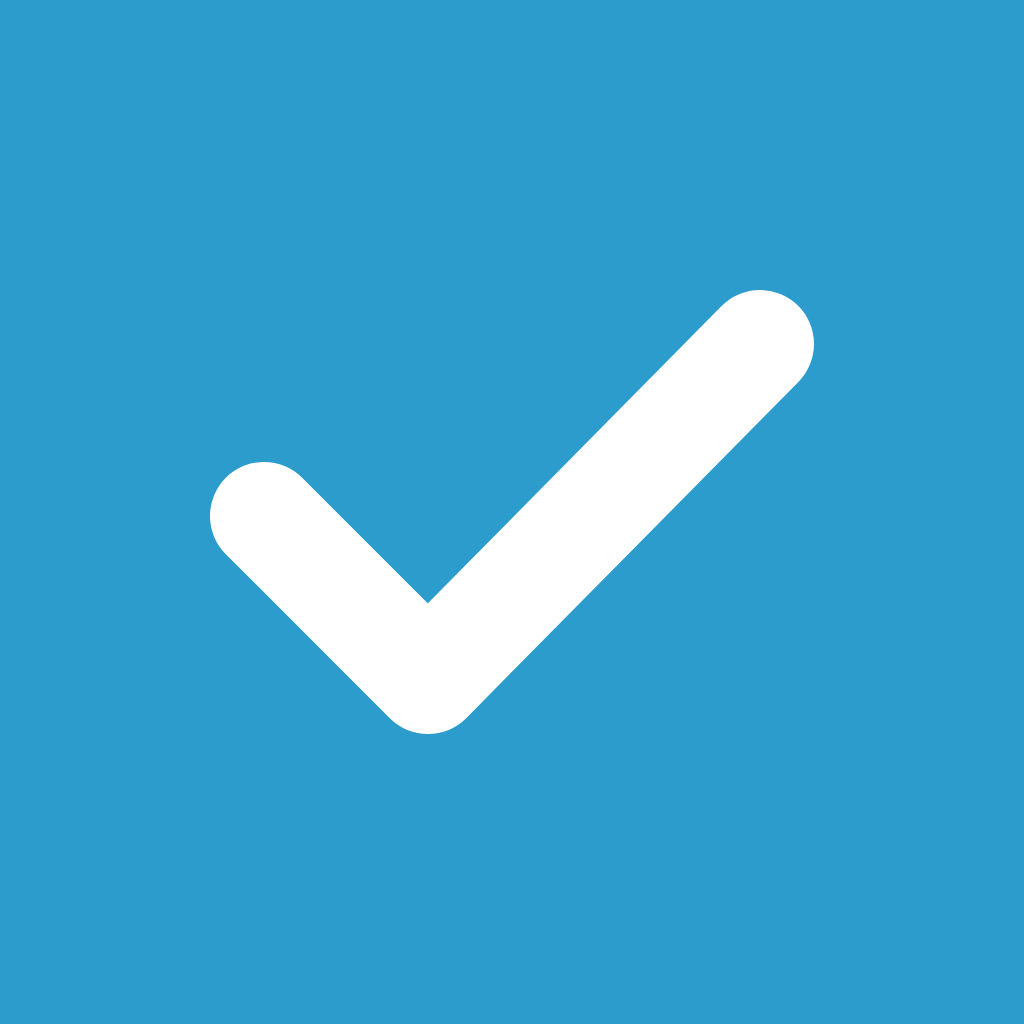
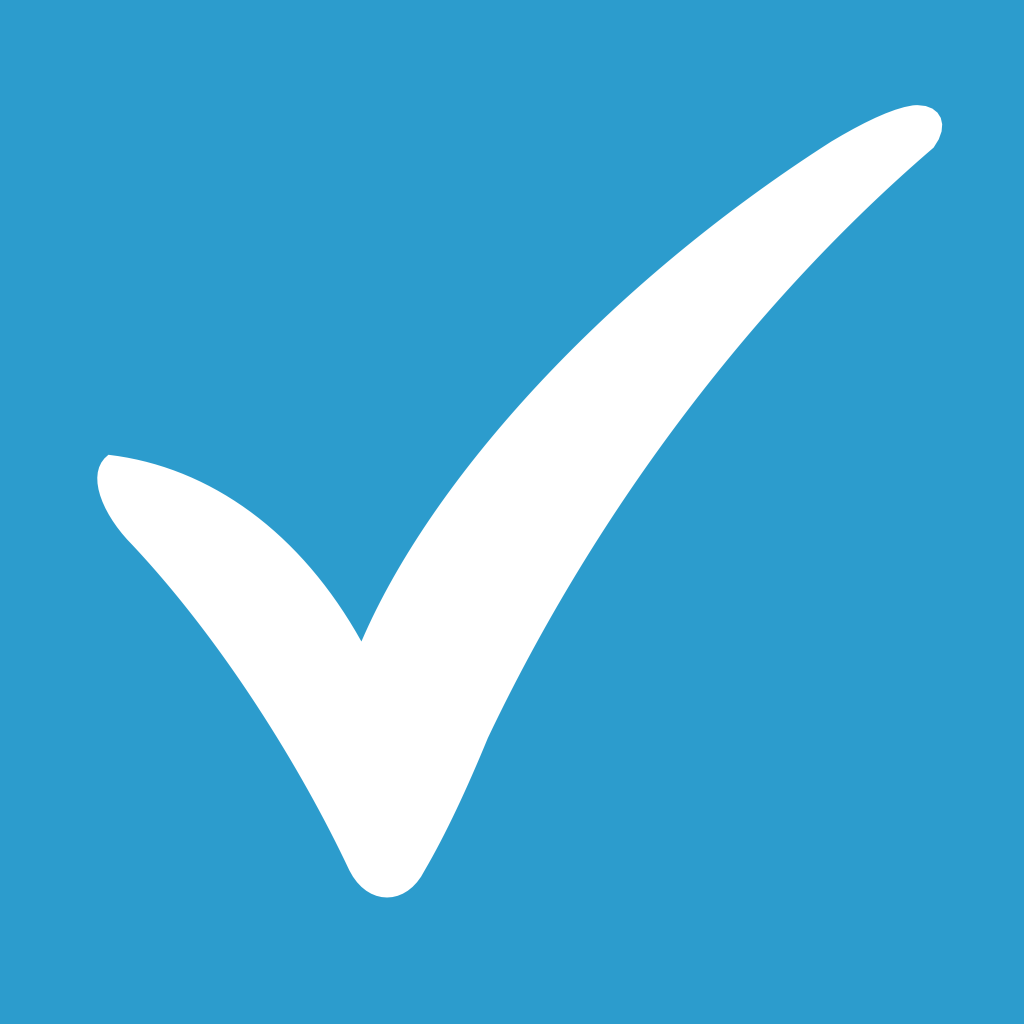
feat: update branding to the v3a design (#50)

Changed region(s): [[0.0938, 0.0938, 0.9375, 0.875], [0.5, 0.625, 0.5312, 0.6562]]

diff --git a/branding/README.md b/branding/README.md
@@ -1,25 +1,27 @@
-# Branding
+# Branding v3a
 
-Brand colour: **`#2c9ccd`**. The mark is a single check, stroked with round
-caps and optically centred — a check is bottom-heavy, so it sits slightly high
-in its box.
+Vector remaster of the original swoosh-check logo. Same composition, same
+brand blue **#2c9ccd** — but clean curves that stay sharp at any resolution.
+The COMMIT wordmark carries a background-coloured keyline so the letters stay
+legible where they cross the check.
 
 | File | Use it for |
 | --- | --- |
-| `avatar.png` | The org avatar. White check on brand blue, 1024×1024. |
-| `banner-light.png` / `banner-dark.png` | READMEs and docs. Pair them in a `<picture>` so the banner follows the reader's theme. |
-| `logo-mark.png` | The mark alone, transparent, where a background already exists. |
-| `*.svg` | Source of truth. Edit these, then re-render the PNGs. |
+| `avatar.png` | The org avatar. White swoosh on brand blue, 1024x1024, wordless. |
+| `logo.png` / `logo-dark.png` | The full lockup for light / dark backgrounds (keyline colour differs). |
+| `logo-mark.png` | The swoosh alone, transparent, brand blue. |
+| `banner-light.png` / `banner-dark.png` | READMEs and docs. Pair them in a `<picture>`. |
+| `favicon.svg` | Favicon / small tile. |
+| `social-preview.png` | GitHub social preview (1280x640). |
+| `*.svg` | Source of truth. The wordmark uses Montserrat SemiBold; PNGs here are the reference renders. |
 
-Reference the **PNGs**, not the SVGs: GitHub proxies README images through
-camo, which handles SVG unreliably.
-
-The avatar is deliberately wordless. GitHub shows org avatars at around 40px
-in most places, and at that size a wordmark is an unreadable smudge.
+Reference the **PNGs** in READMEs, not the SVGs: GitHub proxies README images
+through camo, which handles SVG unreliably — and the SVG text needs Montserrat
+installed to render correctly.
 
 ## Legacy files
 
-`logo.jpg` and `logo-small.jpg` predate these and are kept only because
+`logo.jpg` and `logo-small.jpg` predate this set and are kept only because
 something outside this repository may still link to them. Neither is fit for
 new use: `logo.jpg` is a PNG wearing a `.jpg` extension, and `logo-small.jpg`
 is a real JPEG, so it has no transparency and renders as a white box on any
